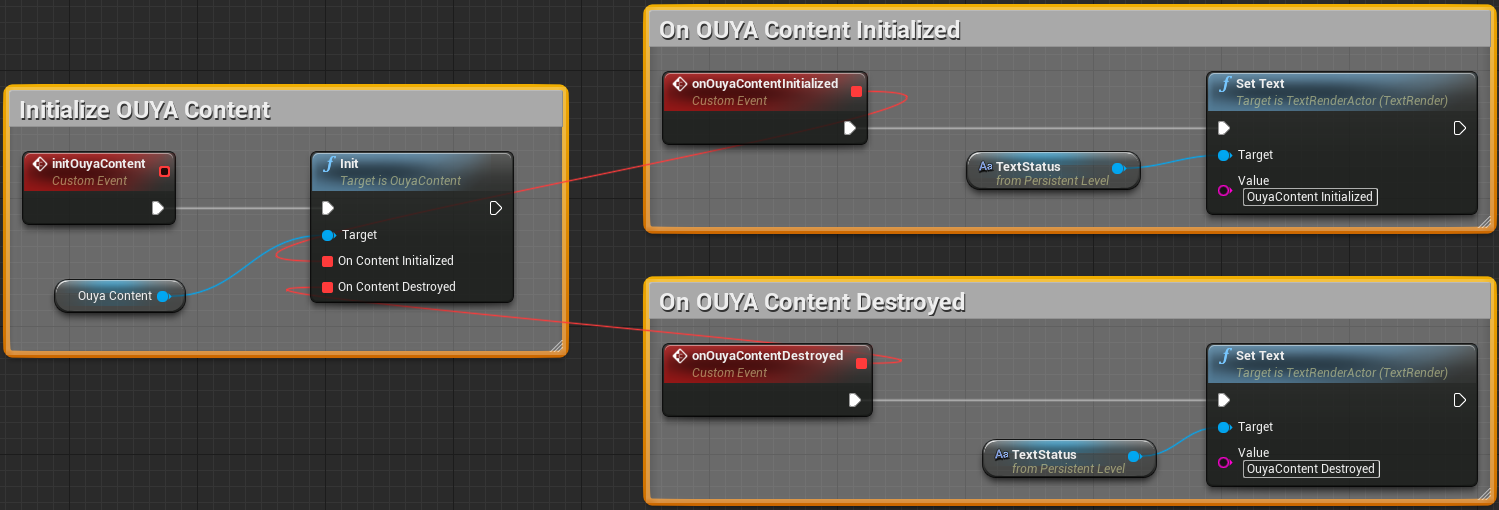
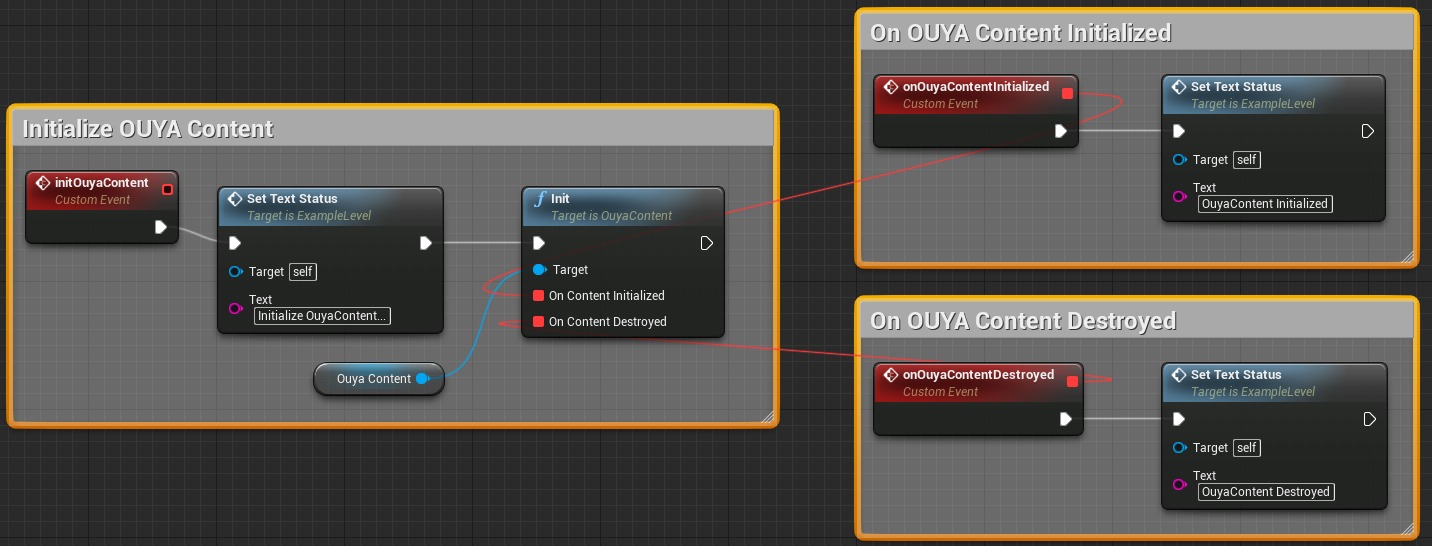
Document OuyaMod editing

diff --git a/unreal.md b/unreal.md
@@ -510,20 +510,30 @@ Upon success, the other `OuyaSDK` methods can be invoked.
 
 The [Community Content](https://github.com/ouya/ouya-sdk-examples/tree/master/Unreal/CommunityContent) example shows how to interact with the Community Content API from blueprints.
 
+## Success Callbacks
+
+* The examples use a `Status` text field to display the current status.
+The `setTextStatus` custom event is reused as a helper to display the status. 
+
+![Failure callback](unreal/image_97.png)
+
+## Failure Callbacks
+
+* Most failure callbacks have an `errorCode` and `errorMessage` which are displayed in status text field for the examples. The `setErrorTextStatus` custom event can be reused to simplify the failure callbacks.
+
+![Failure callback](unreal/image_96.png)
+
 ## Get OUYA Content
 
 * Before interacting with the Community Content API, get a reference to the `OUYA Content` actor.
 
-![Get Screenshots](unreal/image_92.png)
-
 * Upon success, or failure the `Get OUYA Content` callbacks will be invoked.
-`onSuccess` provides an `OUYA Content` object.
 
-![Get Screenshots](unreal/image_93.png)
+* `onSuccess` receives a reference to the `OuyaContent` actor.
 
-`onFailure` receives an `errorCode` and `errorMessage` details about the failure.
+* `onFailure` receives an `errorCode` and `errorMessage` details about the failure.
 
-![Get Screenshots](unreal/image_94.png)
+![Get OUYA Content](unreal/image_92.png)
 
 ## Initialize OUYA Content
 
@@ -532,7 +542,35 @@ The `onContentInitialized` delegate will be called with `OuyaContent` has been i
 The `onContentDestroyed` delegate will be called with `OuyaContent` has been destroyed.
 * `OuyaContent` should be initialized before invoking other `Community Content` methods.
 
-![Get Screenshots](unreal/image_95.png)
+![Initialize OuyaContent](unreal/image_95.png)
+
+## Create OUYA Mod
+
+* `CreateOuyaMod` creates a local `Community Content` record which you can use for editing and publishing.
+
+* Upon success or failure the `CreateOuyaMod` callbacks will be invoked.
+
+* `onSuccess` receives a reference to the `OuyaMod` actor.
+
+* `onFailure` receives an `errorCode` and `errorMessage` details about the failure.
+
+![Get OUYA Content](unreal/image_93.png)
+
+## Edit OUYA Mod
+
+* Upon success, or failure, the `Edit OuyaMod` callbacks will be invoked.
+
+* `onSuccess` receives a reference to the `OuyaModEditor` and `OuyaMod` actors.
+
+* `onFailure` receives the associated `OuyaMod` actor, an `errorCode` and `errorMessage` details about the failure.
+
+![Get OUYA Content](unreal/image_98.png)
+
+## Flag OUYA Mod
+
+* The `Flag` function will open the dialog to `Flag` the content item for review.
+
+![Get OUYA Content](unreal/image_94.png)
 
 ## Get Screenshots
 
